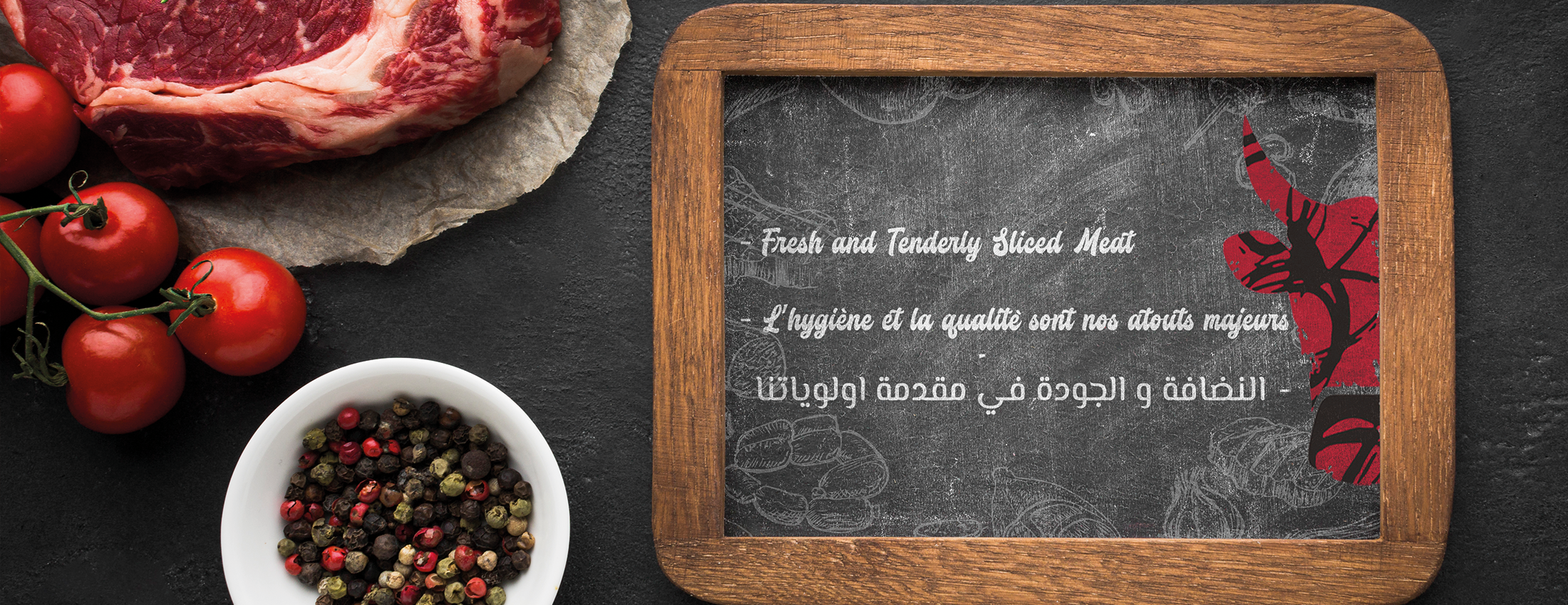
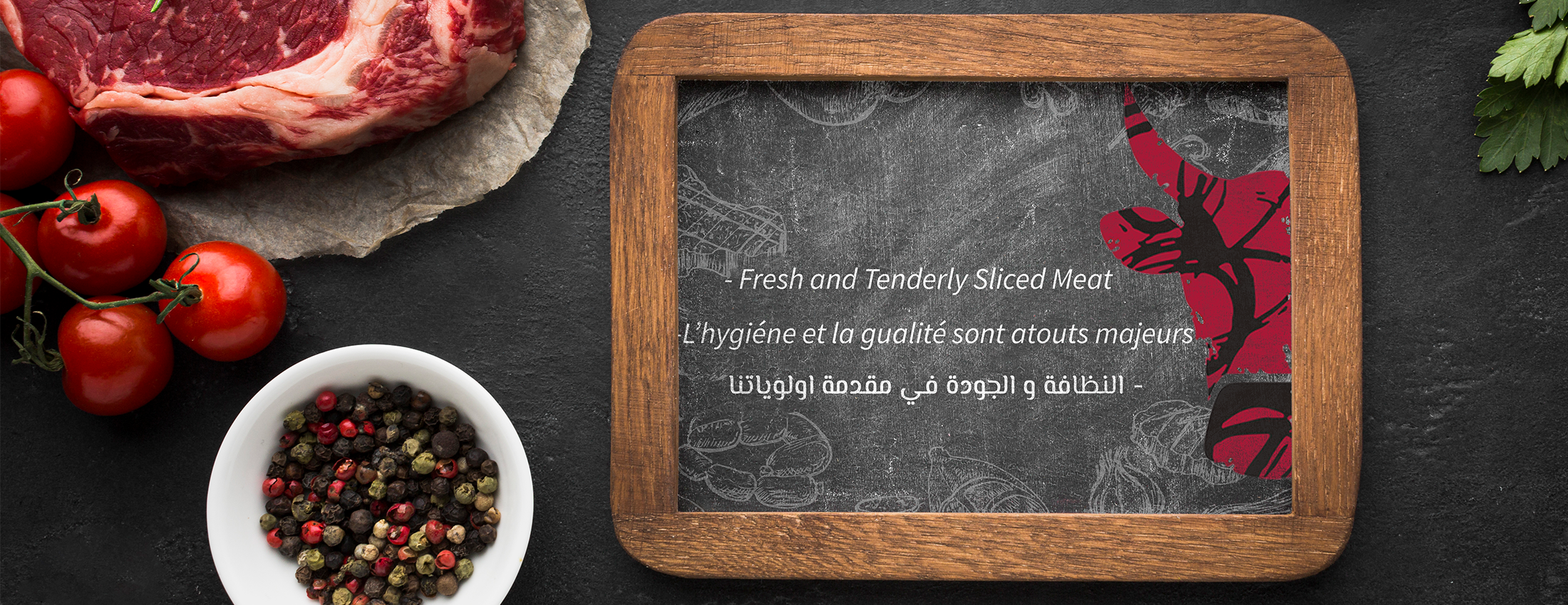
updated inetrface
i added more pics

diff --git a/index.html b/index.html
@@ -106,10 +106,10 @@
           <img src="assets/img/slider/fff.png" alt="img">
           <!-- Top slider content -->
           <div class="mu-top-slider-content">
-            <span class="mu-slider-small-title">Bienvenue</span>
-            <h2 class="mu-slider-title">al majazer market</h2>
-            <p>une équipe dynamique qui vous aidera à choisir la meilleure viande pour votre repas.</p>           
-            <a href="#mu-reservation" class="mu-readmore-btn mu-reservation-btn">order</a>
+            <span class="mu-slider-small-title"></span>
+            <h2 class="mu-slider-title"></h2>
+            <p></p>           
+            <a href="#mu-reservation" class="mu-readmore-btn mu-reservation-btn">Commandez</a>
           </div>
           <!-- / Top slider content -->
         </div>
@@ -120,10 +120,10 @@
           <img src="assets/img/slider/Untfffffitled-1.png" alt="img">
           <!-- Top slider content -->
           <div class="mu-top-slider-content">
-            <span class="mu-slider-small-title">découvrir</span>
-            <h2 class="mu-slider-title">best meat</h2>
-            <p>meilleure qualité de viande et de service.</p>           
-           <a href="#mu-reservation" class="mu-readmore-btn mu-reservation-btn">ORDER</a>
+            <span class="mu-slider-small-title"></span>
+            <h2 class="mu-slider-title"></h2>
+            <p></p>           
+           <a href="#mu-reservation" class="mu-readmore-btn mu-reservation-btn">Commandez</a>
           </div>
           <!-- / Top slider content -->
         </div>
@@ -134,10 +134,10 @@
           <img src="assets/img/slider/Untitffffled-1.png" alt="img">
           <!-- Top slider content -->
           <div class="mu-top-slider-content">
-            <span class="mu-slider-small-title">Delicious</span>
-            <h2 class="mu-slider-title">viande marinée</h2>
-            <p>le meilleur de la viande marinée.</p>           
-            <a href="#mu-reservation" class="mu-readmore-btn mu-reservation-btn">BOOK A TABLE</a>
+            <span class="mu-slider-small-title"></span>
+            <h2 class="mu-slider-title"></h2>
+            <p></p>           
+            <a href="#mu-reservation" class="mu-readmore-btn mu-reservation-btn">Commandez</a>
           </div>
           <!-- / Top slider content -->
         </div>

diff --git a/style.css b/style.css
@@ -285,7 +285,6 @@ img {
 }
 
 .mu-top-slider .mu-top-slider-single:after {
-  background-color: rgba(0, 0, 0, 0.6);
   bottom: 0;
   content: "";
   left: 0;
@@ -302,7 +301,7 @@ img {
 .mu-top-slider .mu-top-slider-single .mu-top-slider-content {
   position: absolute;
   left: 15%;
-  top: 30%;
+  top: 75%;
   right: 15%;
   text-align: center;
   z-index: 99;
@@ -1475,7 +1474,7 @@ RESERVATION SECTION
   .mu-top-slider .mu-top-slider-single .mu-top-slider-content {
     position: absolute;
     left: 5%;
-    top: 15%;
+    top: 70%;
     right: 5%;
   }
 
@@ -1809,4 +1808,9 @@ RESERVATION SECTION
 .logoimg{
   height: 180px;
   width: 180px;
+}
+
+@media (max-width: 450px) {
+  .mu-main-navbar .navbar-header .navbar-brand img {
+    margin-left: 30%;
 }
